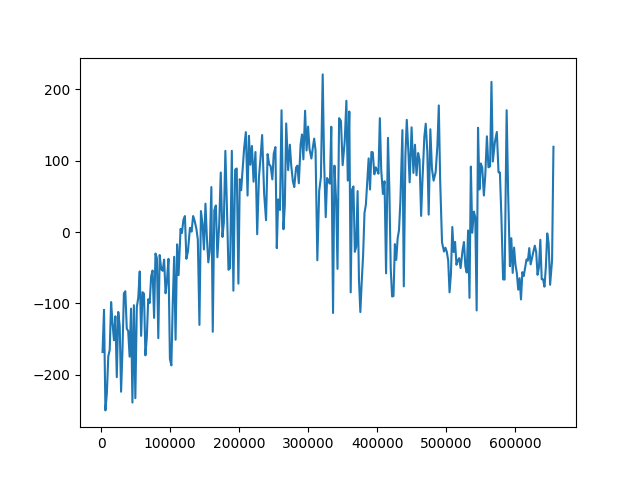
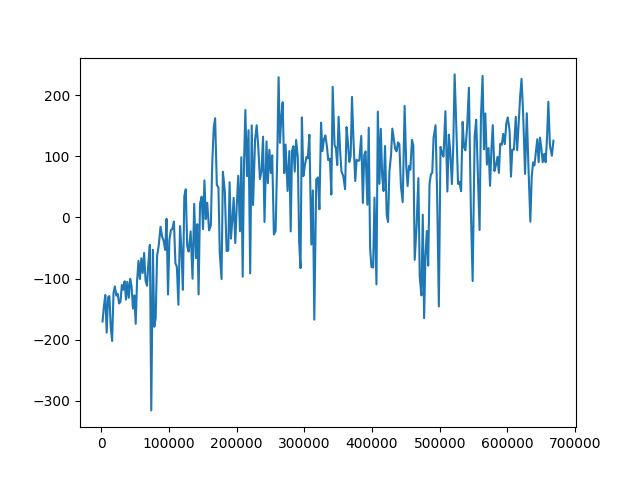
Working vpg with gae

diff --git a/hw2/cs285/agents/pg_agent.py b/hw2/cs285/agents/pg_agent.py
@@ -62,7 +62,6 @@ class PGAgent(nn.Module):
         """
 
         batch_size = sum(o.shape[0] for o in obs)
-        print("len of obs: ", len(obs))
         # step 1: calculate Q values of each (s_t, a_t) point, using rewards (r_0, ..., r_t, ..., r_T)
         q_values: Sequence[np.ndarray] = self._calculate_q_vals(rewards)
 
@@ -144,7 +143,6 @@ class PGAgent(nn.Module):
                 
                 #values has shape batch_size x 1 by this time; this is just value estimate
                 
-                
                 for i in reversed(range(batch_size)):
                     # TODO: recursively compute advantage estimates starting from timestep T.
                     # HINT: use terminals to handle edge cases. terminals[i] is 1 if the state is the last in its
@@ -167,6 +165,7 @@ class PGAgent(nn.Module):
             mean = advantages.mean()
             std = advantages.std()
             advantages = (advantages - mean)/(std + 1e-8)
+        
 
         return advantages
 

diff --git a/hw2/cs285/networks/policies.py b/hw2/cs285/networks/policies.py
@@ -106,8 +106,7 @@ class MLPPolicyPG(MLPPolicy):
         actions = ptu.from_numpy(actions)
         #adv shape: batch 
         advantages = ptu.from_numpy(advantages)
-        
-        
+                
 
         # TODO: implement the policy gradient actor update.
         #get act probs
@@ -126,7 +125,7 @@ class MLPPolicyPG(MLPPolicy):
             #compute gauss likelihood; we removed the last constant; in theory this shouldn't really matter in gradient calculation 
             norm_dist = torch.distributions.normal.Normal(probs, torch.exp(self.logstd))
             act_log_probs = norm_dist.log_prob(actions).sum(dim=-1)
-                
+           
         loss = -(act_log_probs * advantages).mean()
         loss.backward()
         self.optimizer.step()

diff --git a/hw2/cs285/infrastructure/utils.py b/hw2/cs285/infrastructure/utils.py
@@ -43,7 +43,7 @@ def sample_trajectory(
 
         # TODO rollout can end due to done, or due to max_length
         steps += 1
-        rollout_done: bool = done or len(obs) == max_length
+        rollout_done: bool = (done or len(obs) == max_length)
 
         # record result of taking that action
         obs.append(ob)
